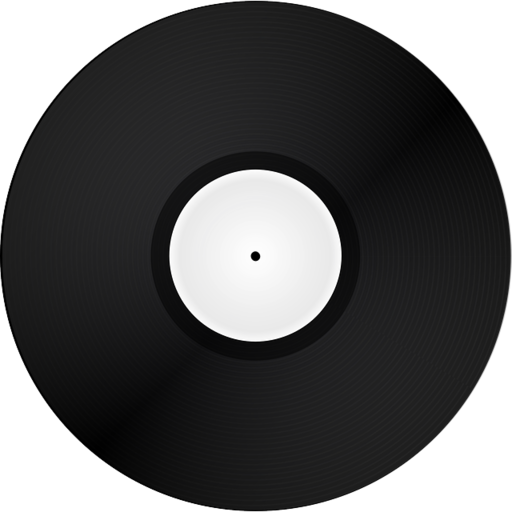
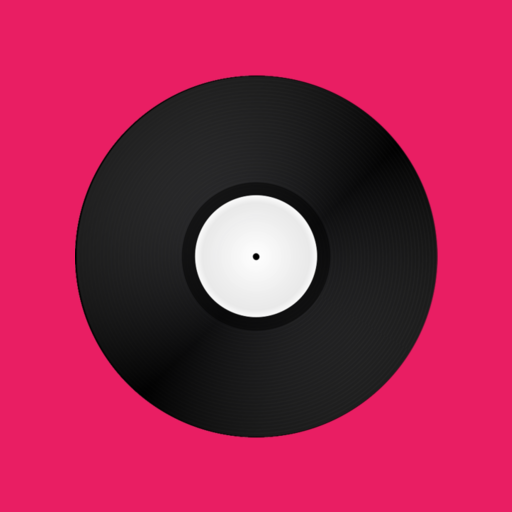
slick new pwa-enabled splash screen

diff --git a/public/index.html b/public/index.html
@@ -1,30 +1,41 @@
 <!DOCTYPE html>
 <html lang="en">
-  <head>
-    <meta charset="utf-8">
-    <meta name="viewport" content="width=device-width, initial-scale=1, shrink-to-fit=no">
 
-    <link rel="apple-touch-startup-image" href="%PUBLIC_URL%/favicon-32x32.png" />
-  
-    <link rel="apple-touch-icon" sizes="180x180" href="%PUBLIC_URL%/apple-touch-icon.png">
+<head>
+  <meta charset="utf-8">
+  <meta name="viewport" content="width=device-width, initial-scale=1, shrink-to-fit=no">
+
+  <link rel="apple-touch-startup-image" href="%PUBLIC_URL%/favicon-32x32.png" />
+
+  <!-- <link rel="apple-touch-icon" sizes="180x180" href="%PUBLIC_URL%/apple-touch-icon.png">
     <link rel="icon" type="image/png" sizes="32x32" href="%PUBLIC_URL%/favicon-32x32.png">
     <link rel="icon" type="image/png" sizes="16x16" href="%PUBLIC_URL%/favicon-16x16.png">
     <link rel="mask-icon" href="%PUBLIC_URL%/safari-pinned-tab.svg" color="#e91e63">
     <meta name="msapplication-TileColor" content="#e91e63">
-    <meta name="theme-color" content="#ffffff">
+    <meta name="theme-color" content="#ffffff"> -->
 
-    <link href="https://fonts.googleapis.com/css?family=Montserrat:300,700" rel="stylesheet">
+  <link rel="apple-touch-icon" sizes="180x180" href="%PUBLIC_URL%/apple-touch-icon.png">
+  <link rel="icon" type="image/png" sizes="32x32" href="%PUBLIC_URL%/favicon-32x32.png">
+  <link rel="icon" type="image/png" sizes="16x16" href="%PUBLIC_URL%/favicon-16x16.png">
+  <link rel="manifest" href="%PUBLIC_URL%/site.webmanifest">
+  <link rel="mask-icon" href="%PUBLIC_URL%/safari-pinned-tab.svg" color="#e91e63">
+  <meta name="msapplication-TileColor" content="#e91e63">
+  <meta name="theme-color" content="#e91e63">
 
-    <link rel="manifest" href="%PUBLIC_URL%/manifest.json">
+  <link href="https://fonts.googleapis.com/css?family=Montserrat:300,700" rel="stylesheet">
 
-    <script src="//widget.cloudinary.com/global/all.js" type="text/javascript"></script>
+  <!-- <link rel="manifest" href="%PUBLIC_URL%/manifest.json"> -->
 
-    <title>Der Katalog</title>
-  </head>
-  <body>
-    <noscript>
+  <script src="//widget.cloudinary.com/global/all.js" type="text/javascript"></script>
+
+  <title>Der Katalog</title>
+</head>
+
+<body>
+  <noscript>
       You need to enable JavaScript to run this app.
     </noscript>
-    <div id="root"></div>
-  </body>
+  <div id="root"></div>
+</body>
+
 </html>
